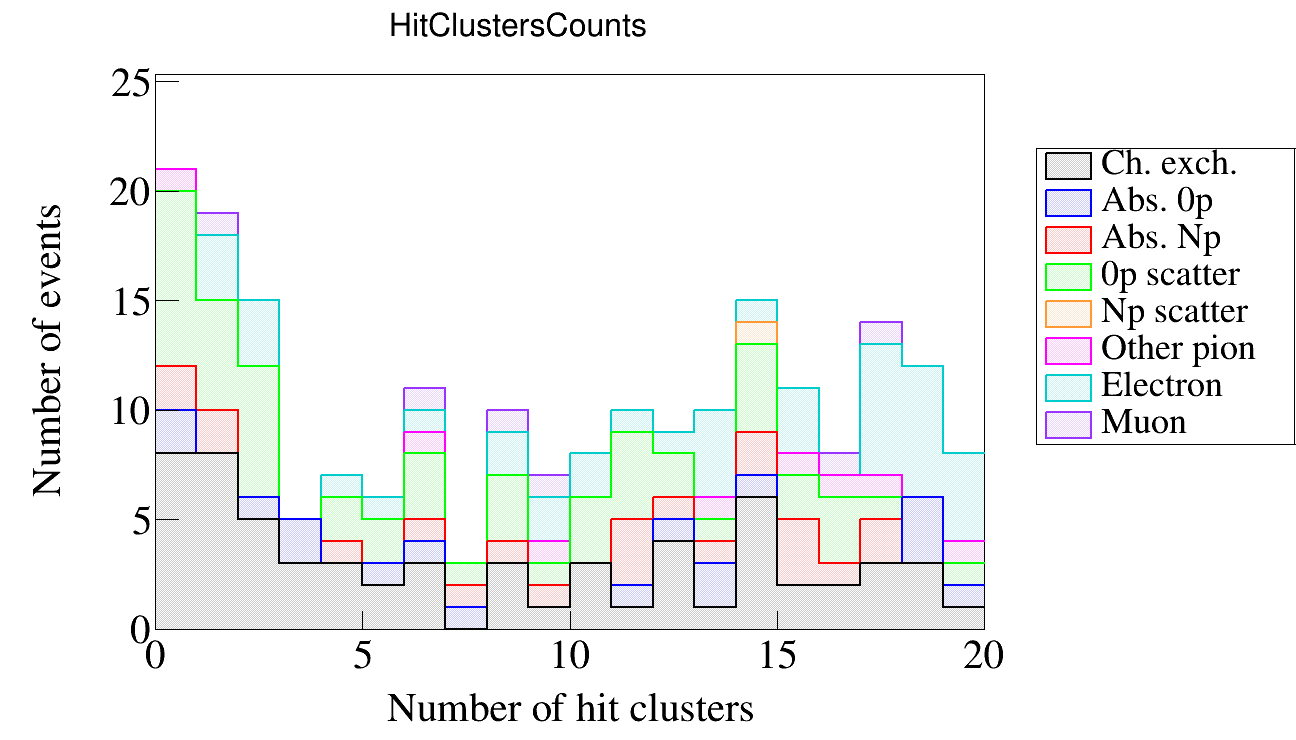
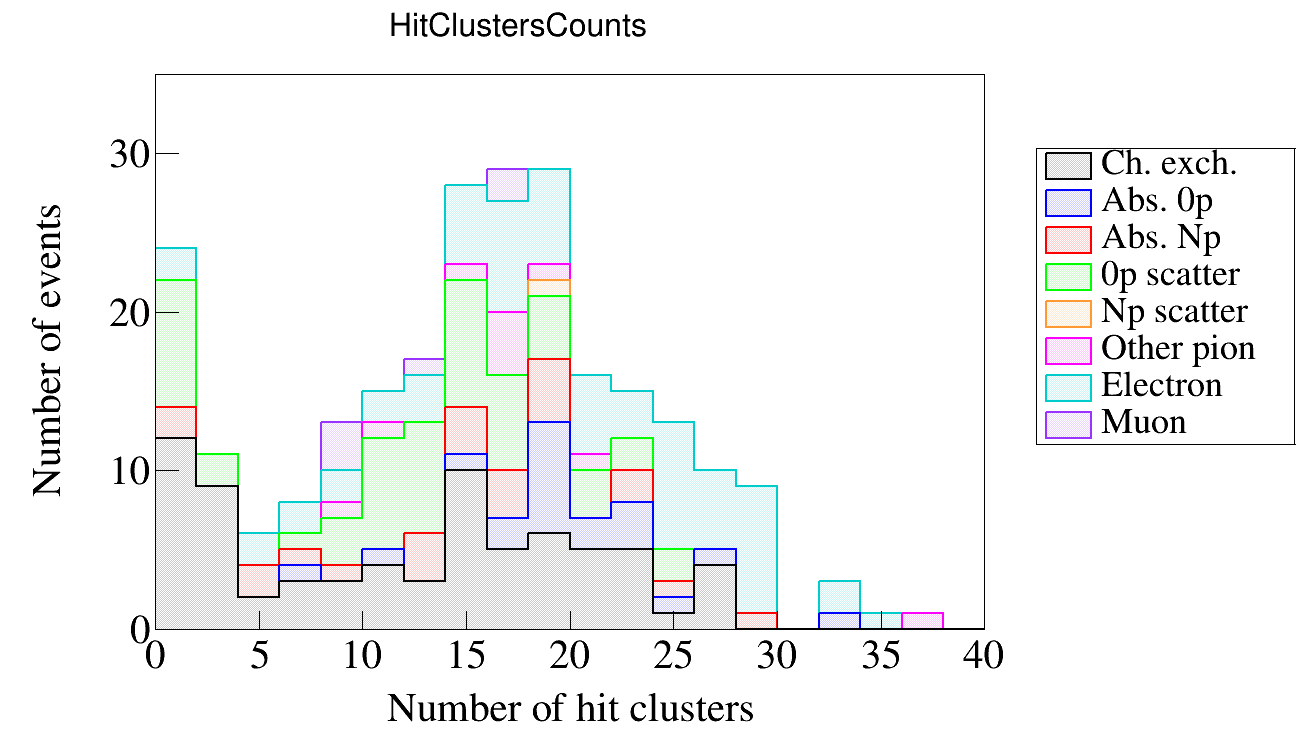
Work on charge exchange selection

diff --git a/RecoNNShowers.cc b/RecoNNShowers.cc
@@ -347,14 +347,14 @@ void RecoNNShowers() {
     );
 
     // Hit clusters
-    TH1D* hChargeExchangeHitClusters = new TH1D("hChargeExchangeHitClusters", "hChargeExchangeHitClusters;;", 20, 0, 20);
-    TH1D* hPionAbs0pHitClusters      = new TH1D("hPionAbs0pHitClusters", "hPionAbs0pHitClusters;;", 20, 0, 20);
-    TH1D* hPionAbsNpHitClusters      = new TH1D("hPionAbsNpHitClusters", "hPionAbsNpHitClusters;;", 20, 0, 20);
-    TH1D* hPion0pScatterHitClusters  = new TH1D("hPion0pScatterHitClusters", "hPion0pScatterHitClusters;;", 20, 0, 20);
-    TH1D* hPionNpScatterHitClusters  = new TH1D("hPionNpScatterHitClusters", "hPionNpScatterHitClusters;;", 20, 0, 20);
-    TH1D* hOtherPionHitClusters      = new TH1D("hOtherPionHitClusters", "hOtherPionHitClusters;;", 20, 0, 20);
-    TH1D* hElectronHitClusters       = new TH1D("hElectronHitClusters", "hElectronHitClusters;;", 20, 0, 20);
-    TH1D* hMuonHitClusters           = new TH1D("hMuonHitClusters", "hMuonHitClusters;;", 20, 0, 20);
+    TH1D* hChargeExchangeHitClusters = new TH1D("hChargeExchangeHitClusters", "hChargeExchangeHitClusters;;", 20, 0, 40);
+    TH1D* hPionAbs0pHitClusters      = new TH1D("hPionAbs0pHitClusters", "hPionAbs0pHitClusters;;", 20, 0, 40);
+    TH1D* hPionAbsNpHitClusters      = new TH1D("hPionAbsNpHitClusters", "hPionAbsNpHitClusters;;", 20, 0, 40);
+    TH1D* hPion0pScatterHitClusters  = new TH1D("hPion0pScatterHitClusters", "hPion0pScatterHitClusters;;", 20, 0, 40);
+    TH1D* hPionNpScatterHitClusters  = new TH1D("hPionNpScatterHitClusters", "hPionNpScatterHitClusters;;", 20, 0, 40);
+    TH1D* hOtherPionHitClusters      = new TH1D("hOtherPionHitClusters", "hOtherPionHitClusters;;", 20, 0, 40);
+    TH1D* hElectronHitClusters       = new TH1D("hElectronHitClusters", "hElectronHitClusters;;", 20, 0, 40);
+    TH1D* hMuonHitClusters           = new TH1D("hMuonHitClusters", "hMuonHitClusters;;", 20, 0, 40);
 
     TH1D* hChargeExchangeHitClustersSize = new TH1D("hChargeExchangeHitClustersSize", "hChargeExchangeHitClustersSize;;", 20, 0, 250);
     TH1D* hPionAbs0pHitClustersSize      = new TH1D("hPionAbs0pHitClustersSize", "hPionAbs0pHitClustersSize;;", 20, 0, 250);
@@ -366,14 +366,14 @@ void RecoNNShowers() {
     TH1D* hMuonHitClustersSize           = new TH1D("hMuonHitClustersSize", "hMuonHitClustersSize;;", 20, 0, 250);
 
     // Cluster elongation
-    TH1D* hChargeExchangeClusterElong = new TH1D("hChargeExchangeClusterElong", "hChargeExchangeClusterElong", 20, 0, 1);
-    TH1D* hPionAbs0pClusterElong      = new TH1D("hPionAbs0pClusterElong", "hPionAbs0pClusterElong", 20, 0, 1);
-    TH1D* hPionAbsNpClusterElong      = new TH1D("hPionAbsNpClusterElong", "hPionAbsNpClusterElong", 20, 0, 1);
-    TH1D* hPion0pScatterClusterElong  = new TH1D("hPion0pScatterClusterElong", "hPion0pScatterClusterElong", 20, 0, 1);
-    TH1D* hPionNpScatterClusterElong  = new TH1D("hPionNpScatterClusterElong", "hPionNpScatterClusterElong", 20, 0, 1);
-    TH1D* hOtherPionClusterElong      = new TH1D("hOtherPionClusterElong", "hOtherPionClusterElong", 20, 0, 1);
-    TH1D* hElectronClusterElong       = new TH1D("hElectronClusterElong", "hElectronClusterElong", 20, 0, 1);
-    TH1D* hMuonClusterElong           = new TH1D("hMuonClusterElong", "hMuonClusterElong", 20, 0, 1);
+    TH1D* hChargeExchangeClusterElong = new TH1D("hChargeExchangeClusterElong", "hChargeExchangeClusterElong", 20, 0, 0.5);
+    TH1D* hPionAbs0pClusterElong      = new TH1D("hPionAbs0pClusterElong", "hPionAbs0pClusterElong", 20, 0, 0.5);
+    TH1D* hPionAbsNpClusterElong      = new TH1D("hPionAbsNpClusterElong", "hPionAbsNpClusterElong", 20, 0, 0.5);
+    TH1D* hPion0pScatterClusterElong  = new TH1D("hPion0pScatterClusterElong", "hPion0pScatterClusterElong", 20, 0, 0.5);
+    TH1D* hPionNpScatterClusterElong  = new TH1D("hPionNpScatterClusterElong", "hPionNpScatterClusterElong", 20, 0, 0.5);
+    TH1D* hOtherPionClusterElong      = new TH1D("hOtherPionClusterElong", "hOtherPionClusterElong", 20, 0, 0.5);
+    TH1D* hElectronClusterElong       = new TH1D("hElectronClusterElong", "hElectronClusterElong", 20, 0, 0.5);
+    TH1D* hMuonClusterElong           = new TH1D("hMuonClusterElong", "hMuonClusterElong", 20, 0, 0.5);
 
     //////////////////////
     // Loop over events //
@@ -747,8 +747,8 @@ void RecoNNShowers() {
         // Hit analysis //
         //////////////////
 
-        const float xThreshold = 20.0; // 40
-        const float wThreshold = 20.0 * HIT_WIRE_SEPARATION; // 40
+        const float xThreshold = 20.0;
+        const float wThreshold = 20.0 * HIT_WIRE_SEPARATION;
         std::unordered_set<int> hitsInWC2TPC(hitWC2TPCKey->begin(), hitWC2TPCKey->end());
         std::unordered_set<int> hitsInRecoTrack(hitRecoAsTrackKey->begin(), hitRecoAsTrackKey->end());
         std::unordered_set<int> hitsInThroughTrack(hitThroughTrack->begin(), hitThroughTrack->end());
@@ -763,12 +763,13 @@ void RecoNNShowers() {
             //               << ", plane: " << fHitPlane->at(iHit) << ", key: " << fHitKey->at(iHit)  << std::endl;
             // }
 
+            if (hitsInWC2TPC.count(fHitKey->at(iHit)) > 0 || fHitPlane->at(iHit) == 1) continue;
             // if (hitsInRecoTrack.count(fHitKey->at(iHit)) > 0 || fHitPlane->at(iHit) == 1) continue;
-            if (
-                hitsInWC2TPC.count(fHitKey->at(iHit)) > 0 ||
-                fHitPlane->at(iHit) == 1 ||
-                hitsInThroughTrack.count(fHitKey->at(iHit)) > 0
-            ) continue;
+            // if (
+            //     hitsInWC2TPC.count(fHitKey->at(iHit)) > 0 ||
+            //     fHitPlane->at(iHit) == 1 ||
+            //     hitsInThroughTrack.count(fHitKey->at(iHit)) > 0
+            // ) continue;
 
             float hitX = fHitX->at(iHit);
             float hitW = fHitW->at(iHit);
@@ -790,7 +791,7 @@ void RecoNNShowers() {
         int nCandidateHits    = candidateInductionHits.size();
 
         // Hits in the same cluster must be separated by at most some number of wires
-        float maxHitClusterSeparation = HIT_WIRE_SEPARATION * 5.0;
+        float maxHitClusterSeparation = HIT_WIRE_SEPARATION * 3.0;
         float maxHitXSeparation       = 3.0;
 
         for (int iHit = 0; iHit < nCandidateHits; ++iHit) {
@@ -800,13 +801,13 @@ void RecoNNShowers() {
             
             // First, check if we have already used this hit
             int   thisHitKey       = candidateInductionHits.at(iHit);
+            if (usedHits.count(thisHitKey)) continue;
+
             float thisHitW         = fHitW->at(thisHitKey);
             float thisHitX         = fHitX->at(thisHitKey);
             float thisHitCharge    = fHitCharge->at(thisHitKey);
             float thisHitChargeCol = fHitChargeCol->at(thisHitKey);
 
-            if (usedHits.count(thisHitKey)) continue;
-            
             std::vector<int>   clusterKeys;
             std::vector<float> clusterX;
             std::vector<float> clusterW;
@@ -821,13 +822,14 @@ void RecoNNShowers() {
             
             for (int iAllHit = 0; iAllHit < nTotalHits; ++iAllHit) {
                 // Skip already used hits, those reconstructed in primary track, and those in collection plane
+                if (usedHits.count(iAllHit) > 0 || hitsInWC2TPC.count(iAllHit) > 0 || fHitPlane->at(iAllHit) == 1) continue;
                 // if (usedHits.count(iAllHit) > 0 || hitsInRecoTrack.count(iAllHit) > 0 || fHitPlane->at(iAllHit) == 1) continue;
-                if (
-                    usedHits.count(iAllHit) > 0 || 
-                    hitsInWC2TPC.count(iAllHit) > 0 || 
-                    hitsInThroughTrack.count(iAllHit) > 0 ||
-                    fHitPlane->at(iAllHit) == 1
-                ) continue;
+                // if (
+                //     usedHits.count(iAllHit) > 0 || 
+                //     hitsInWC2TPC.count(iAllHit) > 0 || 
+                //     hitsInThroughTrack.count(iAllHit) > 0 ||
+                //     fHitPlane->at(iAllHit) == 1
+                // ) continue;
 
                 float internalHitW  = fHitW->at(iAllHit);
                 float internalHitX  = fHitX->at(iAllHit);
@@ -885,9 +887,10 @@ void RecoNNShowers() {
         for (const auto& cluster : hitClusters) {
             int clusterSize = cluster.hitKeys.size();
 
-            if (clusterSize < 10) continue;
+            if (clusterSize < 20) continue;
 
-            clusterElongation = getClusterElongation(cluster);
+            // clusterElongation = getClusterElongation(cluster);
+            clusterElongation = getClusterWidth(cluster);
             if (maxElong < clusterElongation) maxElong = clusterElongation;
 
             if (backgroundType == 7) {
@@ -929,30 +932,10 @@ void RecoNNShowers() {
             hOtherPionClusterElong->Fill(maxElong);
         }
 
-        if (hitClusters.size() > 4) continue;
+        if (hitClusters.size() > 6) continue;
 
         hChargeExchange->Fill(backgroundType);
     }
-
-    /////////////////////////////////////////////
-    // Print purity and efficiency at each cut //
-    /////////////////////////////////////////////
-
-    std::cout << std::endl;
-    std::cout << "Purity and efficiency at each cut:" << std::endl;
-    std::cout << "  Shower probability cut: " << std::endl;
-    std::cout << "    Purity: " << hPassShowerProb->GetBinContent(8) / hPassShowerProb->Integral() << std::endl;
-    std::cout << "    Efficiency: " << hPassShowerProb->GetBinContent(8) / hTotalEvents->GetBinContent(8) << std::endl;
-    std::cout << "  Track PID cut: " << std::endl;
-    std::cout << "    Purity: " << hPassTrackPID->GetBinContent(8) / hPassTrackPID->Integral() << std::endl;
-    std::cout << "    Efficiency: " << hPassTrackPID->GetBinContent(8) / hTotalEvents->GetBinContent(8) << std::endl;
-    std::cout << "  Small track cut: " << std::endl;
-    std::cout << "    Purity: " << hPassSmallTracks->GetBinContent(8) / hPassSmallTracks->Integral() << std::endl;
-    std::cout << "    Efficiency: " << hPassSmallTracks->GetBinContent(8) / hTotalEvents->GetBinContent(8) << std::endl;
-    std::cout << "  Final: " << std::endl;
-    std::cout << "    Purity: " << hChargeExchange->GetBinContent(8) / hChargeExchange->Integral() << std::endl;
-    std::cout << "    Efficiency: " << hChargeExchange->GetBinContent(8) / hTotalEvents->GetBinContent(8) << std::endl;
-    std::cout << std::endl;
 
     /////////////////////////////////
     // Get optimal small track cut //
@@ -971,6 +954,41 @@ void RecoNNShowers() {
 
     std::cout << std::endl;
     std::cout << "Small track cut max purity = " << maxContentChEx << " at (small track size, # of small tracks) = (" << xAtMaxChEx << ", " << yAtMaxChEx << ")" << std::endl;
+    std::cout << std::endl;
+
+    /////////////////////////////////////////////
+    // Print purity and efficiency at each cut //
+    /////////////////////////////////////////////
+
+    std::cout << std::endl;
+    std::cout << "Charge exchange in original sample: " << hTotalEvents->GetBinContent(8) << " out of " << hTotalEvents->Integral() << " total events (" << (hTotalEvents->GetBinContent(8) / hTotalEvents->Integral()) * 100 << "%)" << std::endl;
+    printBackgroundInfo(hTotalEvents, std::cout);
+
+    std::cout << std::endl;
+    std::cout << "Purity and efficiency at each cut:" << std::endl;
+    std::cout << "  Shower probability cut: " << std::endl;
+    std::cout << "    Total reco: " << hPassShowerProb->Integral() << std::endl;
+    std::cout << "    Purity: " << hPassShowerProb->GetBinContent(8) / hPassShowerProb->Integral() << std::endl;
+    std::cout << "    Efficiency: " << hPassShowerProb->GetBinContent(8) / hTotalEvents->GetBinContent(8) << std::endl;
+    printBackgroundInfo(hPassShowerProb, std::cout);
+    std::cout << std::endl;
+    std::cout << "  Track PID cut: " << std::endl;
+    std::cout << "    Total reco: " << hPassTrackPID->Integral() << std::endl;
+    std::cout << "    Purity: " << hPassTrackPID->GetBinContent(8) / hPassTrackPID->Integral() << std::endl;
+    std::cout << "    Efficiency: " << hPassTrackPID->GetBinContent(8) / hTotalEvents->GetBinContent(8) << std::endl;
+    printBackgroundInfo(hPassTrackPID, std::cout);
+    std::cout << std::endl;
+    std::cout << "  Small track cut: " << std::endl;
+    std::cout << "    Total reco: " << hPassSmallTracks->Integral() << std::endl;
+    std::cout << "    Purity: " << hPassSmallTracks->GetBinContent(8) / hPassSmallTracks->Integral() << std::endl;
+    std::cout << "    Efficiency: " << hPassSmallTracks->GetBinContent(8) / hTotalEvents->GetBinContent(8) << std::endl;
+    printBackgroundInfo(hPassSmallTracks, std::cout);
+    std::cout << std::endl;
+    std::cout << "  Final: " << std::endl;
+    std::cout << "    Total reco: " << hChargeExchange->Integral() << std::endl;
+    std::cout << "    Purity: " << hChargeExchange->GetBinContent(8) / hChargeExchange->Integral() << std::endl;
+    std::cout << "    Efficiency: " << hChargeExchange->GetBinContent(8) / hTotalEvents->GetBinContent(8) << std::endl;
+    printBackgroundInfo(hChargeExchange, std::cout);
     std::cout << std::endl;
 
     /////////////////////////////////

diff --git a/Helpers.cc b/Helpers.cc
@@ -2,6 +2,7 @@
 
 #include <vector>
 #include <string>
+#include <algorithm>
 #include "TGraph.h"
 
 int getCorrespondingBin(double value, int num_bins, double low, double high) {
@@ -395,6 +396,42 @@ double getClusterElongation(HitCluster cluster) {
     if (lambda2 > lambda1) std::swap(lambda1, lambda2);
 
     return lambda2 / lambda1;
+}
+
+double getClusterWidth(HitCluster cluster) {
+    const auto& X = cluster.hitX;
+    const auto& W = cluster.hitW;
+    const std::size_t N = (X.size() < W.size()) ? X.size() : W.size();
+    if (N < 2) return 0.0;
+
+    // Means
+    double mx = 0.0, mw = 0.0;
+    for (std::size_t i = 0; i < N; ++i) { mx += X[i]; mw += W[i]; }
+    mx /= double(N); mw /= double(N);
+
+    // Covariance (unbiased)
+    double Sxx = 0.0, Sww = 0.0, Sxw = 0.0;
+    for (std::size_t i = 0; i < N; ++i) {
+        const double dx = double(X[i]) - mx;
+        const double dw = double(W[i]) - mw;
+        Sxx += dx*dx; Sww += dw*dw; Sxw += dx*dw;
+    }
+    const double d = double(N - 1);
+    Sxx /= d; Sww /= d; Sxw /= d;
+
+    // Eigenvalues of 2x2 symmetric matrix
+    const double T = Sxx + Sww;
+    const double D = Sxx*Sww - Sxw*Sxw;
+    const double h = 0.5 * T;
+    double disc2 = h*h - D;
+    if (disc2 < 0.0 && disc2 > -1e-18) disc2 = 0.0; // clamp tiny negative
+    const double disc = std::sqrt(disc2 > 0.0 ? disc2 : 0.0);
+
+    const double lambda1 = h + disc;
+    const double lambda2 = h - disc; // minor eigenvalue = variance ⟂ to principal axis
+
+    // RMS width orthogonal to the principal axis
+    return (lambda2 > 0.0) ? std::sqrt(lambda2) : 0.0;
 }
 
 double distance(double x1, double x2, double y1, double y2, double z1, double z2) {

diff --git a/Helpers.h b/Helpers.h
@@ -163,6 +163,7 @@ double meanDEDX(std::vector<double> trackDEDX, bool isTrackReversed, int pointsT
 double energyLossCalculation();
 double energyLossCalculation(double x, double px, bool isData);
 double getClusterElongation(HitCluster cluster);
+double getClusterWidth(HitCluster cluster);
 
 int isSecondaryInteractionAbsorption(std::vector<int> daughtersPDG, std::vector<string> daughtersProcess, std::vector<double> daughtersKE);
 int getCorrespondingBin(double value, int num_bins, double low, double high);
